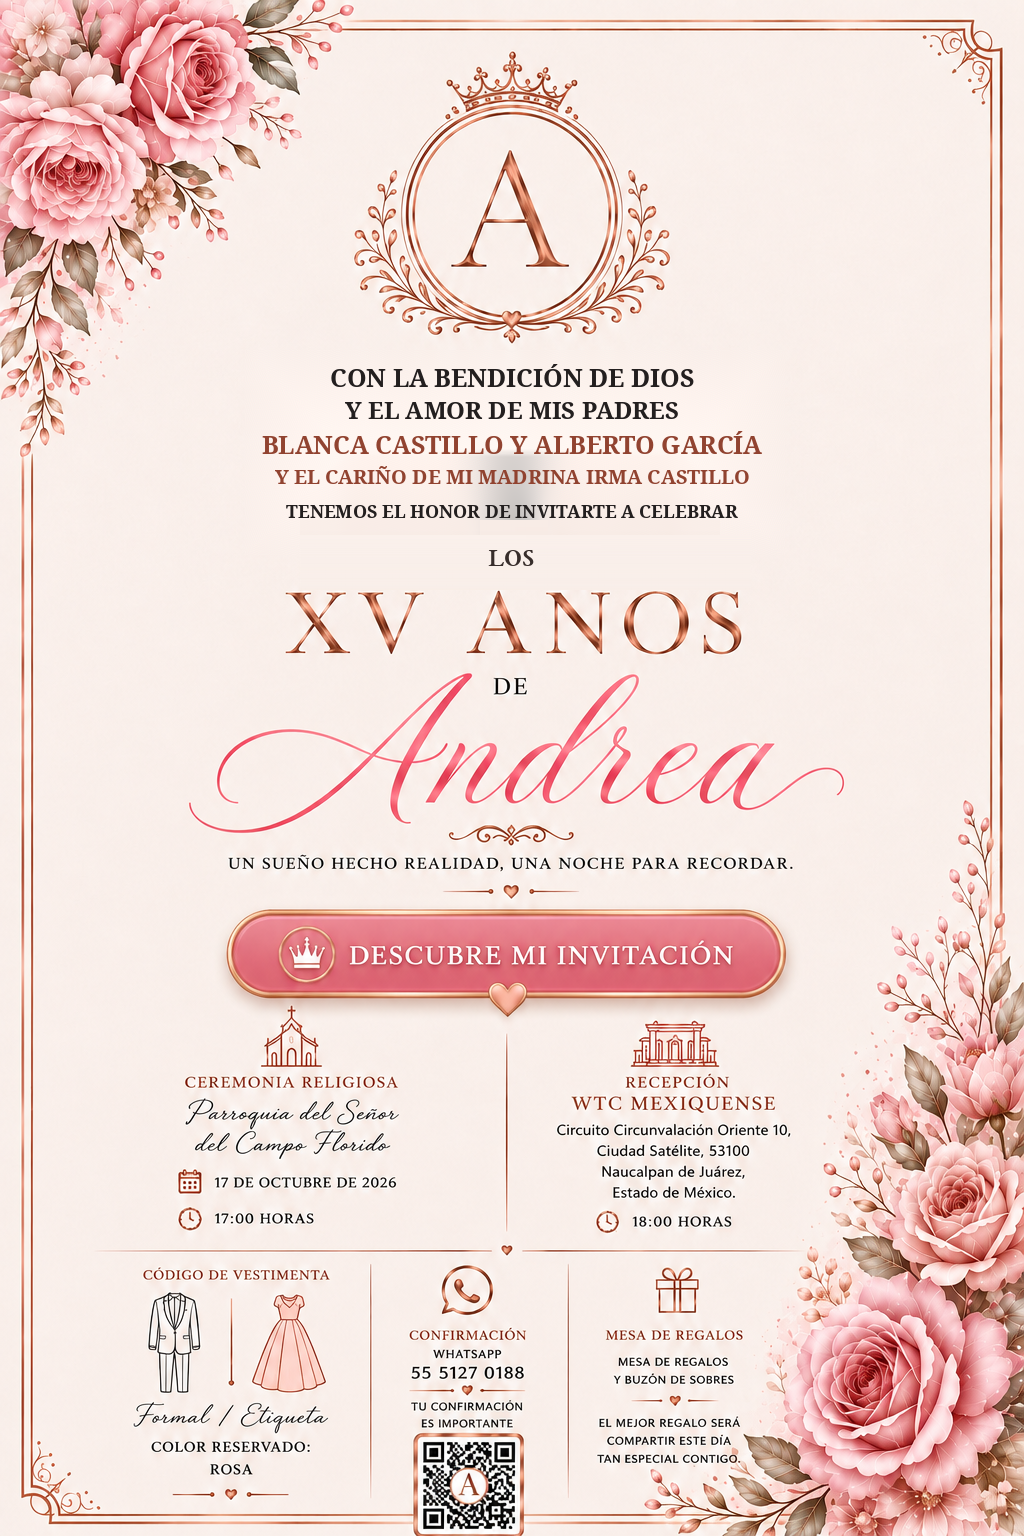
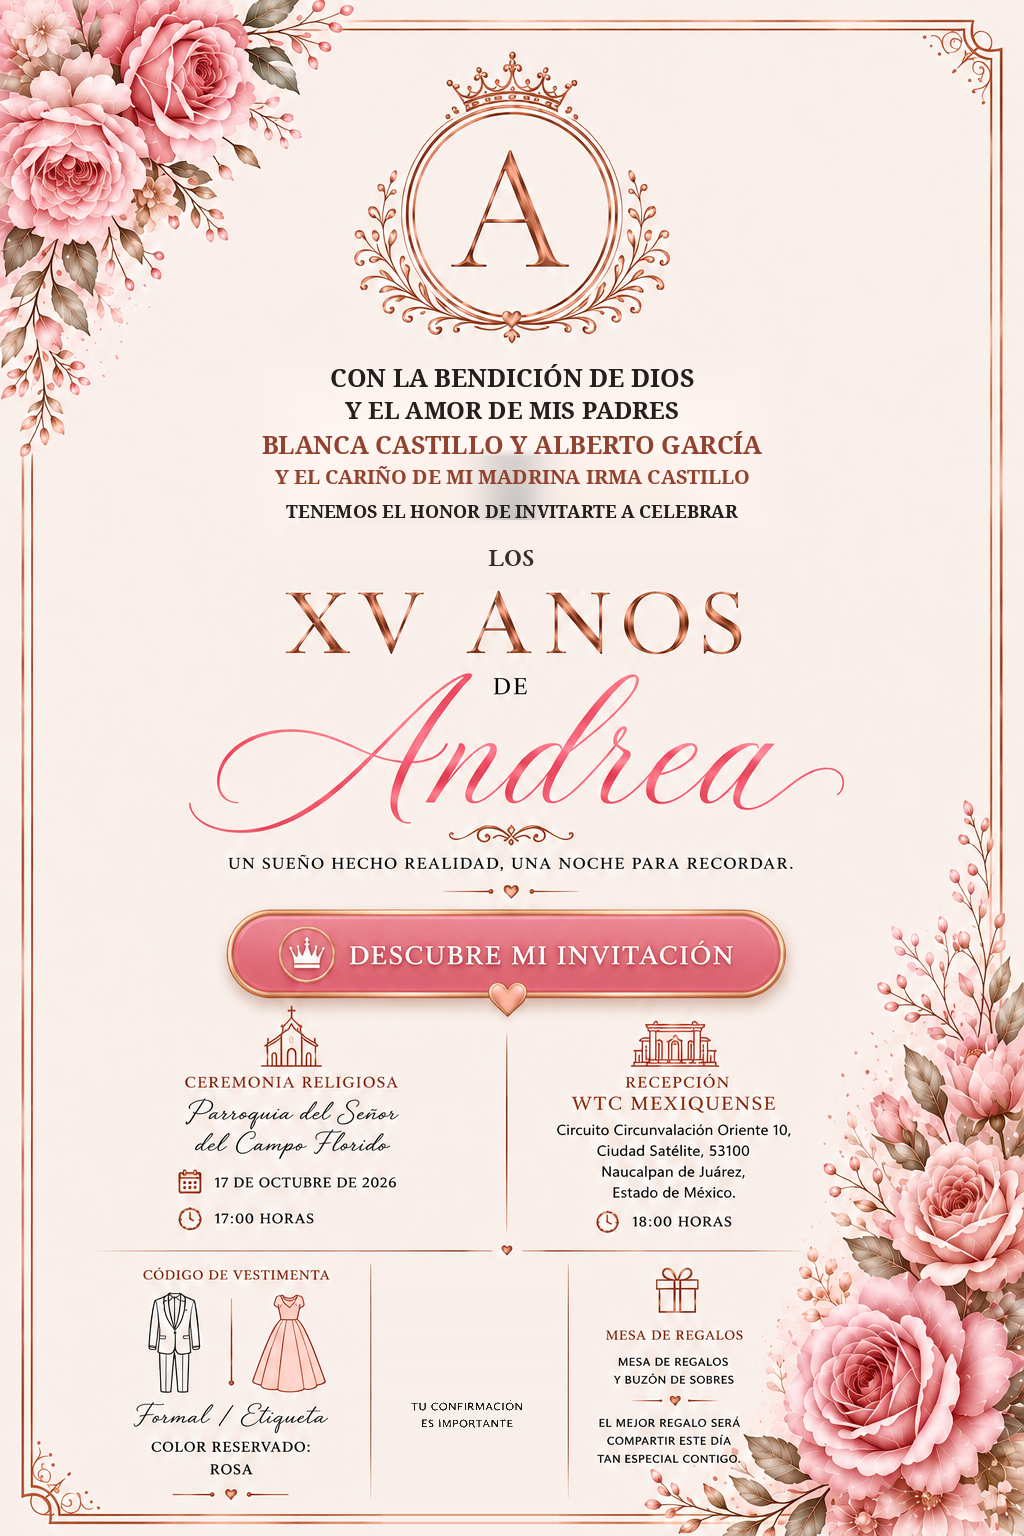
Add files via upload

Changed region(s): [[0.4062, 0.8125, 0.5312, 1.0]]

diff --git a/style-final.css b/style-final.css
@@ -1,0 +1,3 @@
+:root{--pink:#d95f7d;--rose:#b85b58;--blush:#fff7f5;--gold:#b77a5b;--ink:#342725}
+*{box-sizing:border-box}html{scroll-behavior:smooth}body{margin:0;background:#f7e9e7;color:var(--ink);font-family:Georgia,'Times New Roman',serif;padding-bottom:110px}main{max-width:920px;margin:0 auto}.cover{background:#fff;box-shadow:0 18px 50px #7c4c4c22}.cover img{display:block;width:100%;height:auto;cursor:pointer}.section{margin:18px auto;padding:22px;max-width:860px}.intro{background:linear-gradient(180deg,#fff9f8,#fff0f3);border-radius:26px;text-align:center;box-shadow:0 10px 30px #8c526122}.eyebrow{letter-spacing:3px;color:var(--rose);font-weight:700}.intro h1{margin:8px 0 18px;font-size:30px;color:var(--rose)}.countdown{display:grid;grid-template-columns:repeat(4,1fr);gap:10px}.countdown>div{background:#fff;border:1px solid #e69aae;border-radius:16px;padding:12px 6px;box-shadow:0 5px 14px #c05a7020}.countdown b{display:block;font-size:30px;color:#a93d5b}.countdown small{letter-spacing:1px}.event-date{font-weight:700;font-size:18px}.card{background:#fff9f8;border:1px solid #edb4c0;border-radius:24px;box-shadow:0 10px 26px #8c526122;display:flex;gap:22px;align-items:center}.place-card .place-photo{width:46%;max-height:300px;object-fit:cover;border-radius:18px;border:1px solid #e4b0b8}.place-card h2,.card h2{color:#a83d5a;margin-top:0;text-transform:uppercase;letter-spacing:1px}.btn,.whatsapp{display:inline-block;text-decoration:none;background:linear-gradient(135deg,#d95f7d,#b83e61);color:white;padding:10px 18px;border-radius:999px;font-weight:700;margin:4px 6px 0 0}.icon{width:100px;height:100px;object-fit:contain;flex:none}.dress-card{align-items:center}.dual-icons{display:flex;align-items:end;justify-content:center;gap:18px;width:45%;min-width:260px}.dual-icons img{width:125px;height:175px;object-fit:contain;filter:drop-shadow(0 5px 8px #7d4d4d22)}.dress-copy{flex:1}.formal{font-size:20px}.reserved{display:flex;align-items:center;gap:12px;flex-wrap:wrap;font-size:18px}.rosa-text{font-size:28px;color:#d95f7d;font-weight:900;letter-spacing:1px}.pink-dot{width:32px;height:32px;border-radius:50%;background:#d95f7d;display:inline-block;border:2px solid #fff;box-shadow:0 0 0 2px #d95f7d55}.music-card{margin-top:18px;padding:18px;border-radius:20px;background:linear-gradient(135deg,#c94f71,#df7790);color:white;box-shadow:0 10px 25px #8e365020}.music-copy{display:flex;gap:12px;align-items:center}.music-note{font-size:38px}.music-copy strong{display:block;font-size:18px}.music-copy small{opacity:.9}.music-btn{border:0;background:#fff;color:#b63d60;border-radius:999px;padding:12px 20px;font-weight:800;margin-top:12px;cursor:pointer}.music-status{display:block;margin-top:8px;opacity:.95}.bottom{position:fixed;left:50%;bottom:0;transform:translateX(-50%);width:min(920px,100%);background:#d95375;display:grid;grid-template-columns:repeat(6,1fr);gap:3px;padding:9px 7px 10px;z-index:20;box-shadow:0 -8px 25px #7a304022;border-radius:24px 24px 0 0}.bottom a{color:white;text-decoration:none;text-align:center;font-size:11px}.bottom img{display:block;width:46px;height:46px;object-fit:cover;margin:0 auto 4px;border-radius:12px;background:#fff2f5;padding:5px}.bottom small{font-size:10px;letter-spacing:.5px}footer{text-align:center;color:#9e4660;padding:18px;font-style:italic}
+@media(max-width:650px){body{padding-bottom:96px}.section{margin:12px 10px;padding:16px}.countdown{gap:6px}.countdown b{font-size:22px}.countdown small{font-size:9px}.place-card{flex-direction:column;align-items:stretch}.place-card .place-photo{width:100%;max-height:230px}.icon{width:78px;height:78px}.dress-card{flex-direction:column}.dual-icons{width:100%;min-width:0;gap:10px}.dual-icons img{width:115px;height:160px}.bottom{border-radius:18px 18px 0 0}.bottom img{width:38px;height:38px}.bottom small{font-size:8px}}

diff --git a/index.html b/index.html
@@ -2,22 +2,21 @@
 <html lang="es">
 <head>
 <meta charset="utf-8"><meta name="viewport" content="width=device-width,initial-scale=1,viewport-fit=cover">
-<meta name="theme-color" content="#d95f7d"><title>Andrea XV | Invitación</title><link rel="stylesheet" href="style.css">
+<meta name="theme-color" content="#d95f7d"><title>Andrea XV | Invitación</title><link rel="stylesheet" href="style-final.css?v=20260823b">
 </head>
 <body>
 <main>
 <section class="cover" aria-label="Invitación principal">
-<img id="coverImage" src="./invitacion-portada-final.png" alt="Invitación de XV años de Andrea" tabindex="0" role="button" aria-label="Descubre mi invitación">
+<img id="coverImage" src="./invitacion-portada-final.png?v=20260823b" alt="Invitación de XV años de Andrea" tabindex="0" role="button" aria-label="Descubre mi invitación">
 </section>
 <section id="contenido" class="section intro">
 <p class="eyebrow">ANDREA · MIS XV AÑOS</p><h1>Una noche para recordar</h1>
 <div class="countdown"><div><b id="d">00</b><small>DÍAS</small></div><div><b id="h">00</b><small>HORAS</small></div><div><b id="m">00</b><small>MINUTOS</small></div><div><b id="s">00</b><small>SEGUNDOS</small></div></div>
 <p class="event-date">17 DE OCTUBRE DE 2026 · 17:00 HRS</p>
 <div class="music-card" aria-label="Música instrumental sin anuncios">
-<div class="music-copy"><span class="music-note">♪</span><div><strong>Vals romántico · Andrea</strong><small>Instrumental original · sin anuncios</small></div></div>
+<div class="music-copy"><span class="music-note">♪</span><div><strong>Música instrumental elegante · Andrea</strong><small>Melodía original · sin anuncios</small></div></div>
 <button id="musicButton" class="music-btn" type="button" aria-pressed="false">▶ Activar música</button>
 <small id="musicStatus" class="music-status">Toca para iniciar la música. Funciona sin archivos externos.</small>
-<a class="spotify-link" target="_blank" rel="noopener" href="https://open.spotify.com/track/3sW3oSbzsfecv9XoUdGs7h?si=mmJ20wrKRP2cJIgg5LVvxA&utm_source=native-share-menu">Escuchar “Enchanted” en Spotify</a>
 </div></section>
 <section id="ceremonia" class="section card place-card"><img class="place-photo" src="iglesia-foto.jpg" alt="Iglesia de la ceremonia"><div><h2>Ceremonia religiosa</h2><p><b>17:00 HRS</b><br>Parroquia del Señor del Campo Florido</p><a class="btn" target="_blank" rel="noopener" href="https://maps.google.com/?q=19.498005,-99.231422">Ver en Maps</a></div></section>
 <section id="recepcion" class="section card place-card"><img class="place-photo" src="wtc-foto.jpg" alt="WTC Ciudad Satélite Salones y Banquetes"><div><h2>Recepción</h2><p><b>WTC Mexiquense</b><br>Naucalpan, Estado de México</p><a class="btn" target="_blank" rel="noopener" href="https://waze.com/ul/h9g3qvvgg6">Ver en Waze</a></div></section>
@@ -28,5 +27,5 @@
 </main>
 <nav class="bottom" aria-label="Navegación"><a href="#contenido"><img src="inicio.svg" alt=""><small>INICIO</small></a><a href="#ceremonia"><img src="iglesia-foto.jpg" alt=""><small>CEREMONIA</small></a><a href="#recepcion"><img src="wtc-foto.jpg" alt=""><small>RECEPCIÓN</small></a><a href="#confirmacion"><img src="confirmacion-elegante.svg" alt=""><small>CONFIRMACIÓN</small></a><a href="#album"><img src="album-elegante.svg" alt=""><small>ÁLBUM</small></a><a href="#regalos"><img src="regalo-elegante.svg" alt=""><small>REGALOS</small></a></nav>
 <footer>Con mucho amor, Andrea ♡</footer>
-<script src="script.js"></script>
+<script src="script-final.js?v=20260823b"></script>
 </body></html>

diff --git a/script-final.js b/script-final.js
@@ -1,0 +1,66 @@
+// Andrea XV — cuenta regresiva + música instrumental original generada en el navegador.
+// No usa YouTube, Spotify, MP3 ni carpetas externas de música.
+const target = new Date('2026-10-17T17:00:00-06:00').getTime();
+function tick(){
+  const diff=Math.max(0,target-Date.now());
+  const sec=Math.floor(diff/1000);
+  document.getElementById('d').textContent=String(Math.floor(sec/86400)).padStart(2,'0');
+  document.getElementById('h').textContent=String(Math.floor(sec%86400/3600)).padStart(2,'0');
+  document.getElementById('m').textContent=String(Math.floor(sec%3600/60)).padStart(2,'0');
+  document.getElementById('s').textContent=String(sec%60).padStart(2,'0');
+}
+tick(); setInterval(tick,1000);
+
+let audioCtx=null, master=null, timer=null, running=false, barIndex=0;
+const button=document.getElementById('musicButton'), status=document.getElementById('musicStatus');
+const notes={C4:261.63,D4:293.66,E4:329.63,F4:349.23,G4:392,A4:440,B4:493.88,C5:523.25,D5:587.33,E5:659.25,F5:698.46,G5:783.99,A5:880};
+const bars=[
+ ['C4','G4','E4','G4'],
+ ['A4','E4','C5','E4'],
+ ['F4','C5','A4','C5'],
+ ['G4','D5','B4','D5'],
+ ['C4','G4','E4','G4'],
+ ['F4','C5','A4','C5'],
+ ['A4','E4','C5','E5'],
+ ['G4','D5','B4','D5']
+];
+const melody=[
+ ['E5','G5','A5','G5','E5','D5','C5','D5'],
+ ['E5','A5','G5','E5','D5','C5','B4','C5'],
+ ['C5','E5','G5','A5','G5','E5','D5','C5'],
+ ['D5','G5','A5','G5','E5','D5','C5','B4']
+];
+function tone(freq,start,duration,type,gain){
+  const o=audioCtx.createOscillator(), g=audioCtx.createGain();
+  o.type=type; o.frequency.value=freq;
+  g.gain.setValueAtTime(0,start);
+  g.gain.linearRampToValueAtTime(gain,start+0.04);
+  g.gain.exponentialRampToValueAtTime(0.0001,start+duration);
+  o.connect(g); g.connect(master); o.start(start); o.stop(start+duration+0.04);
+}
+function scheduleBar(at,index){
+  const chord=bars[index%bars.length];
+  chord.forEach((n,i)=>tone(notes[n],at+i*0.75,1.15,'sine',0.026));
+  const line=melody[index%melody.length];
+  line.forEach((n,i)=>tone(notes[n],at+i*0.375,0.62,'triangle',0.022));
+}
+async function startMusic(){
+  if(running)return;
+  audioCtx=audioCtx||new (window.AudioContext||window.webkitAudioContext)();
+  if(audioCtx.state==='suspended') await audioCtx.resume();
+  master=audioCtx.createGain(); master.gain.value=.72; master.connect(audioCtx.destination);
+  const play=()=>{scheduleBar(audioCtx.currentTime,barIndex++);};
+  play(); timer=setInterval(play,3000); running=true;
+  button.textContent='❚❚ Pausar música'; button.setAttribute('aria-pressed','true');
+  status.textContent='♪ Música instrumental elegante activa · sin anuncios';
+}
+function stopMusic(){
+  if(!running)return;
+  clearInterval(timer); timer=null; running=false;
+  if(master) master.gain.exponentialRampToValueAtTime(.0001,audioCtx.currentTime+.3);
+  button.textContent='▶ Activar música'; button.setAttribute('aria-pressed','false'); status.textContent='Música pausada';
+}
+button.addEventListener('click',()=>running?stopMusic():startMusic());
+const cover=document.getElementById('coverImage');
+cover.addEventListener('click',()=>{document.getElementById('contenido').scrollIntoView({behavior:'smooth'}); startMusic();});
+cover.addEventListener('keydown',e=>{if(e.key==='Enter'||e.key===' '){e.preventDefault();document.getElementById('contenido').scrollIntoView({behavior:'smooth'});startMusic();}});

diff --git a/README.md b/README.md
@@ -1,8 +1,8 @@
 # Andrea XV — versión final
 
-- Portada limpia: se eliminó la mancha entre “INVITARTE” y “LOS” sin alterar la tipografía.
-- Música: instrumental original generado por Web Audio API, sin anuncios, sin YouTube y sin carpeta `music`.
-- En la tarjeta de música se conserva un enlace opcional a “Enchanted” en Spotify.
-- Fotos de ceremonia y recepción incluidas directamente.
-- Gráficos elegantes de confirmación, álbum, regalos e inicio incluidos directamente.
-- Código de vestimenta conserva traje y vestido completos.
+- Portada limpia, sin la franja/mancha entre el texto de invitación y “LOS”.
+- En la primera página, la sección de confirmación conserva únicamente “TU CONFIRMACIÓN ES IMPORTANTE”.
+- La confirmación completa con WhatsApp permanece disponible dentro de la interfaz.
+- Música instrumental original generada con Web Audio API: no usa YouTube, Spotify, MP3 ni carpeta music.
+- Cuenta regresiva: 17 de octubre de 2026, 17:00 HRS.
+- Gráficos y fotografías incluidos individualmente en la raíz del proyecto.
